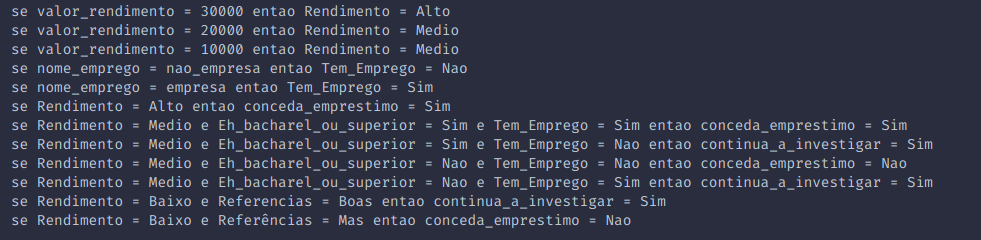
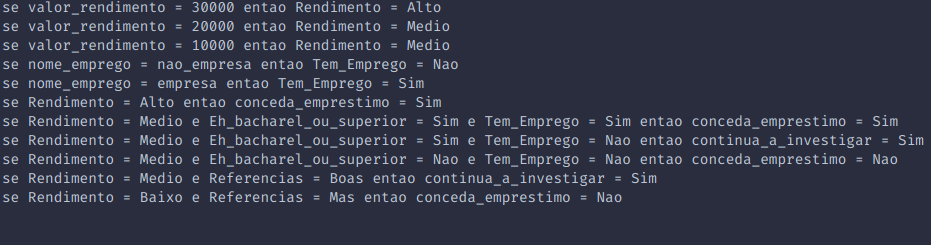
adicionando encadeamento misto e corrigindo algumas coisas

Changed region(s): [[0.0, 0.0, 0.9968, 0.9625]]

diff --git a/BackwardChaining/main.py b/BackwardChaining/main.py
@@ -4,15 +4,21 @@ hypothesis_file_path = "./input/hypothesis.txt"
 
 
 val = {}  # valor de um item ou "?" caso seja indefinido
-rules = {}  # dicionário que guarda todas as regras nas quais o item x com valor y está presente como uma conclusao
+rules = {}  # dicionário que guarda todas as regras nas quais o item x está presente como uma conclusao
 hypothesis = []  # lista com as hipoteses (consultas)
 rule = []  # lista que guarda todas as regras
+query_item = "?"  # item para ser feito uma consulta (caso necessário)
 
 
 def check_item(item):
     if item not in val:
         val[item] = "?"
         rules[item] = []
+
+
+def add_rule(item, index):
+    check_item(item)
+    rules[item].append(index)
 
 
 def set_fact(fact, value):
@@ -24,9 +30,33 @@ def set_hypothesis(h, value):
     hypothesis.append((h, value))
 
 
-def add_rule(item, index):
-    check_item(item)
-    rules[item].append(index)
+def print_rules():
+    print("Regras:")
+    for item in rule:
+        j = 0
+
+        while j < len(item[0]):
+            print(str(item[0][j][0]) + " = " + str(item[0][j][1]), end="")
+            print("" if j == len(item[0]) - 1 else " e ", end="")
+            j += 1
+
+        print(" entao ", end="")
+        print(str(item[1][0]) + " = " + str(item[1][1]))
+
+    print()
+
+
+def print_facts():
+    print("Fatos Iniciais:")
+    for item in val.keys():
+        if val[item] != "?":
+            print(str(item) + " = " + str(val[item]))
+    print()
+
+
+def print_rule(r):
+    print("Aplicando a regra " + str(r) + ": " +
+          str(rule[r][1][0]) + " = " + str(rule[r][1][1]))
 
 
 def parse_line(words):
@@ -60,24 +90,12 @@ def read_rules():
         rule.append((conditions, conclusion))
 
         for c in conditions:
-            check_item(c)
+            check_item(c[0])
 
-        add_rule(conclusion, index)
+        add_rule(conclusion[0], index)
         index += 1
 
-    print("Regras:")
-    for item in rule:
-        j = 0
-
-        while j < len(item[0]):
-            print(str(item[0][j][0]) + " = " + str(item[0][j][1]), end="")
-            print("" if j == len(item[0]) - 1 else " e ", end="")
-            j += 1
-
-        print(" entao ", end="")
-        print(str(item[1][0]) + " = " + str(item[1][1]))
-
-    print()
+    print_rules()
 
 
 def read_facts():
@@ -90,11 +108,7 @@ def read_facts():
         fact = l.split()
         set_fact(fact[0], fact[2])
 
-    print("Fatos:")
-    for item in val.keys():
-        if val[item] != "?":
-            print(str(item) + " = " + str(val[item]))
-    print()
+    print_facts()
 
 
 def read_hypothesis():
@@ -108,62 +122,62 @@ def read_hypothesis():
         set_hypothesis(h[0], h[2])
 
 
-def print_rule(r):
-    print("Aplicando a regra " + str(r) + ": " +
-          str(rule[r][1][0]) + " = " + str(rule[r][1][1]))
+def dfs(item):  # encadeamento para trás (busca em profundidade)
+    check_item(item)
 
-
-def dfs(item):
-    check_item(item[0])
-
-    if val[item[0]] != "?" and val[item[0]] != item[1]:
-        return 0  # falso
-
-    if val[item[0]] == item[1]:
-        return 2  # verdadeiro
+    if val[item] != "?":
+        return val[item]  # ja sei o valor desse item
 
     if len(rules[item]) == 0:
-        return 1  # inconclusivo
-
-    flag = 1
+        global query_item
+        query_item = item
+        return "?"  # inconclusivo
 
     for r in rules[item]:
-        current_flag = 2
+        flag = True
 
         for child_item in rule[r][0]:
-            current = dfs(child_item)
+            current = dfs(child_item[0])
 
-            if current == 1:
-                val[child_item[0]] = child_item[1]
-                current_flag = 1
-            elif current == 0:
-                current_flag = 0
-                break
+            if current != child_item[1]:
+                flag = False
 
-        if current_flag == 2:
-            val[item[0]] = item[1]
+        if flag == True:
+            set_fact(item, rule[r][1][1])
             print_rule(r)
-
-        if current_flag != 1:
-            flag = current_flag
             break
 
-    return flag
+    return val[item]
+
+
+def do_query():
+    global query_item
+    value = input("\nQual o valor do item: \"" + str(query_item) + "\"? ")
+    set_fact(query_item, value)
+    query_item = "?"
+    print()
 
 
 def answer():
-    for item in hypothesis:
-        flag = dfs(item)
+    global query_item
 
-        if flag == 2:
-            print("Hipotese (" + str(item[0]) +
-                  " = " + str(item[1]) + ") é verdadeira!\n")
-        elif flag == 1:
-            print("Hipotese (" + str(item[0]) +
-                  " = " + str(item[1]) + ") é inconclusiva!\n")
-        else:
-            print("Hipotese (" + str(item[0]) +
-                  " = " + str(item[1]) + ") é falsa!\n")
+    for item in hypothesis:
+        result = "?"
+
+        while result == "?":
+            result = dfs(item[0])
+
+            if query_item == "?":
+                query_item = item[0]
+
+            if result == "?":  # indefinido, ainda nao consegui chegar em uma conclusao
+                do_query()
+            elif result == item[1]:
+                print("\nHipotese (" + str(item[0]) +
+                      " = " + str(item[1]) + ") é verdadeira!\n")
+            else:
+                print("\nHipotese (" + str(item[0]) +
+                      " = " + str(item[1]) + ") é falsa!\n")
 
 
 def main():

diff --git a/HybridChaining/main.py b/HybridChaining/main.py
@@ -2,8 +2,10 @@ rules_file_path = "./input/rules.txt"
 facts_file_path = "./input/facts.txt"
 hypothesis_file_path = "./input/hypothesis.txt"
 
+
 val = {}  # valor de um item ou "?" caso seja indefinido
-rules = {}  # dicionário que guarda todas as regras nas quais o item x está presente como uma condicao
+rules = {}  # dicionário que guarda todas as regras nas quais o item x está presente como uma conclusao
+rules2 = {}  # dicionário que guarda todas as regras nas quais o item x está presente como uma condicao
 hypothesis = []  # lista com as hipoteses (consultas)
 rule = []  # lista que guarda todas as regras
 used = []  # guarda se uma regra ja foi usada ou nao
@@ -14,11 +16,17 @@ def check_item(item):
     if item not in val:
         val[item] = "?"
         rules[item] = []
+        rules2[item] = []
 
 
 def add_rule(item, index):
     check_item(item)
     rules[item].append(index)
+
+
+def add_rule2(item, index):
+    check_item(item)
+    rules2[item].append(index)
 
 
 def set_fact(fact, value):
@@ -90,9 +98,9 @@ def read_rules():
         rule.append((conditions, conclusion))
 
         for c in conditions:
-            add_rule(c[0], index)
+            add_rule2(c[0], index)
 
-        check_item(conclusion[0])
+        add_rule(conclusion[0], index)
         index += 1
 
     print_rules()
@@ -147,7 +155,7 @@ def bfs():  # encadeamento para frente (busca em largura)
     while queue:
         item = queue.pop(0)
 
-        for r in rules[item]:
+        for r in rules2[item]:
             if used[r]:
                 continue
 
@@ -156,6 +164,35 @@ def bfs():  # encadeamento para frente (busca em largura)
                 used[r] = 1
                 print_rule(r)
                 queue.append(rule[r][1][0])
+
+
+def dfs(item):  # encadeamento para tras (busca em profundidade)
+    check_item(item)
+
+    if val[item] != "?":
+        return val[item]  # ja sei o valor desse item
+
+    if len(rules[item]) == 0:
+        global query_item
+        query_item = item
+        return "?"  # inconclusivo
+
+    for r in rules[item]:
+        flag = True
+
+        for child_item in rule[r][0]:
+            current = dfs(child_item[0])
+
+            if current != child_item[1]:
+                flag = False
+
+        if flag == True:
+            used[r] = 1
+            set_fact(item, rule[r][1][1])
+            print_rule(r)
+            break
+
+    return val[item]
 
 
 def do_query():
@@ -175,7 +212,8 @@ def answer():
         result = "?"
 
         while result == "?":
-            bfs()
+            dfs(item[0])  # encadeamento para tras
+            bfs()  # encadeamento para frente
             result = val[item[0]]
 
             if query_item == "?":

diff --git a/README.md b/README.md
@@ -14,23 +14,30 @@ Para o conjunto de regras, as seguintes condições precisam ser atendidas:
 - Por último deve vir a palavra reservada "entao" seguido de uma expressão da forma: "X = Y", sendo X e Y palavras representando chave e valor respectivamente
 - Cada palavra deve estar separada por espaços
 - Uma palavra não deve conter espaços
-- As regras são indexadas a partir do 0
+- Nenhuma chave ou valor deve ser igual a "?", "e" ou "entao" por serem palavras reservadas
+- As regras são indexadas a partir do 0 de acordo com o número da linha em que ela está
 
-![Exemplo Regras](Screenshots/rules.png)
+![Exemplo regras](Screenshots/rules.png)
 
-Para o conjunto de fatos, as seguintes condições precisam ser atendidas:
+Para o conjunto de fatos iniciais, as seguintes condições precisam ser atendidas:
 
 - Os fatos devem estar contidos no arquivo facts.txt (dentro da pasta input)
 - Um fato por linha
 - Um fato tem a forma: "X = Y", sendo X e Y palavras representando chave e valor respectivamente
+- Nenhuma chave ou valor deve ser igual a "?", "e" ou "entao" por serem palavras reservadas
 
-![Exemplo Fatos](Screenshots/facts.png)
+![Exemplo fatos](Screenshots/facts.png)
 
-Para o conjunto de hipóteses, as seguintes condições precisam ser atendidas:
+Para o conjunto de hipóteses (objetivos), as seguintes condições precisam ser atendidas:
 
 - as hipóteses devem estar contidos no arquivo hypotesis.txt (dentro da pasta input)
 - Uma hipótese por linha
 - Uma hipótese tem a forma: "X = Y", sendo X e Y palavras representando chave e valor respectivamente
+- Nenhuma chave ou valor deve ser igual a "?", "e" ou "entao" por serem palavras reservadas
+
+![Exemplo hipóteses](Screenshots/hypothesis.png)
+
+Caso o conjunto de fatos iniciais não seja suficiente para chegar em uma conclusão sobre uma das hipóteses, poderão ser feitas novas perguntas ao usuário.
 
 # Execução
 
@@ -41,3 +48,6 @@ Encadeamento para frente:
 
 Encadeamento para trás:
 ![Exemplo encadeamento para trás](Screenshots/backward.png)
+
+Encadeamento misto:
+![Exemplo encadeamento misto](Screenshots/hybrid.png)
